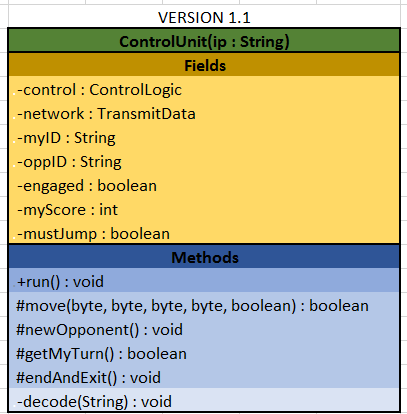
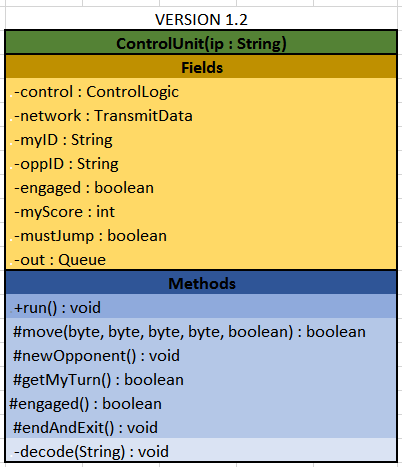
Fix Major Bug in ControlUnit() & other stuff
-Eliminated huge bug in ControlUnit() that was causing 69,000 problems.
-Increased buffer size in TransmitData()

Changed region(s): [[0.0, 0.0, 1.0, 1.0]]

diff --git a/ControlUnit.java b/ControlUnit.java
@@ -1,6 +1,6 @@
 /**
 *This class is the main class in the back end of the checkers game. It Implements ControlLogic and TransmitData. It also inherits from Thread.
-*@version 1.1
+*@version 1.2
 *@author Dan Martineau
 */
 
@@ -15,6 +15,7 @@ public class ControlUnit extends Thread
 	private int myScore;
 	private boolean mustJump;
 	private String prevString;
+	private Queue out;
 
 	/**
 	*Constructor
@@ -25,6 +26,7 @@ public class ControlUnit extends Thread
 		network = new TransmitData(ip);
 		myScore = 0;
 		mustJump = false;
+		out = new Queue();
 
 		//makes sure that TransmitData is fully initialized so that our data will be accurate
 		do
@@ -78,17 +80,17 @@ public class ControlUnit extends Thread
 		byte[] currByte = {currA, currB}; String curr = new String(currByte);
 
 		if(jump && mustJump)
-			network.sendData("c " + myID + " c " + oppID + " j " + control.getOppCoordinates(prev) + " " + control.getOppCoordinates(curr) + " f");
+			out.enque("c " + myID + " c " + oppID + " j " + control.getOppCoordinates(prev) + " " + control.getOppCoordinates(curr) + " f");
 		else if(jump && !mustJump)
-			network.sendData("c " + myID + " c " + oppID + " j " + control.getOppCoordinates(prev) + " " + control.getOppCoordinates(curr) + " t");
+			out.enque("c " + myID + " c " + oppID + " j " + control.getOppCoordinates(prev) + " " + control.getOppCoordinates(curr) + " t");
 		else if(move && !jump)
-			network.sendData("c " + myID + " c " + oppID + " m " + control.getOppCoordinates(prev) + " " + control.getOppCoordinates(curr));
+			out.enque("c " + myID + " c " + oppID + " m " + control.getOppCoordinates(prev) + " " + control.getOppCoordinates(curr));
 		
 		//see if there are anhy moves left
 		if(!control.movesLeft())
 		{
 			System.out.println("\nThere are no moves left. Opponent wins by default.\n");
-			network.sendData("c " + myID + " c " + oppID + " l");
+			out.enque("c " + myID + " c " + oppID + " l");
 		}
 
 		return move;
@@ -119,6 +121,15 @@ public class ControlUnit extends Thread
 	{
 		return control.getMyTurn();
 	}
+	
+	/**
+	*Tells whether or not player is engaged
+	*@return engagement status
+	*/
+	protected boolean engaged()
+	{
+		return engaged;
+	}
 
 	/**
 	*Run method from Thread
@@ -137,7 +148,7 @@ public class ControlUnit extends Thread
 			}
 			catch(Exception e)
 			{
-				System.out.println("Exception in ControlUnit(): " + e);
+				System.out.println("Exception recieving in ControlUnit(): " + e);
 			}
 
 			//decode revieved String if it is not a repeat of a command
@@ -149,6 +160,16 @@ public class ControlUnit extends Thread
 
 			//make sure we have opponent
 			network.engagementStatus();
+			
+			try
+			{
+				if(engaged)
+					network.sendData(out.deque());
+			}
+			catch(Exception x)
+			{
+				System.out.println("Exception sending in ControlUnit(): " + x);
+			}
 
 			//reset hold
 			hold = null;
